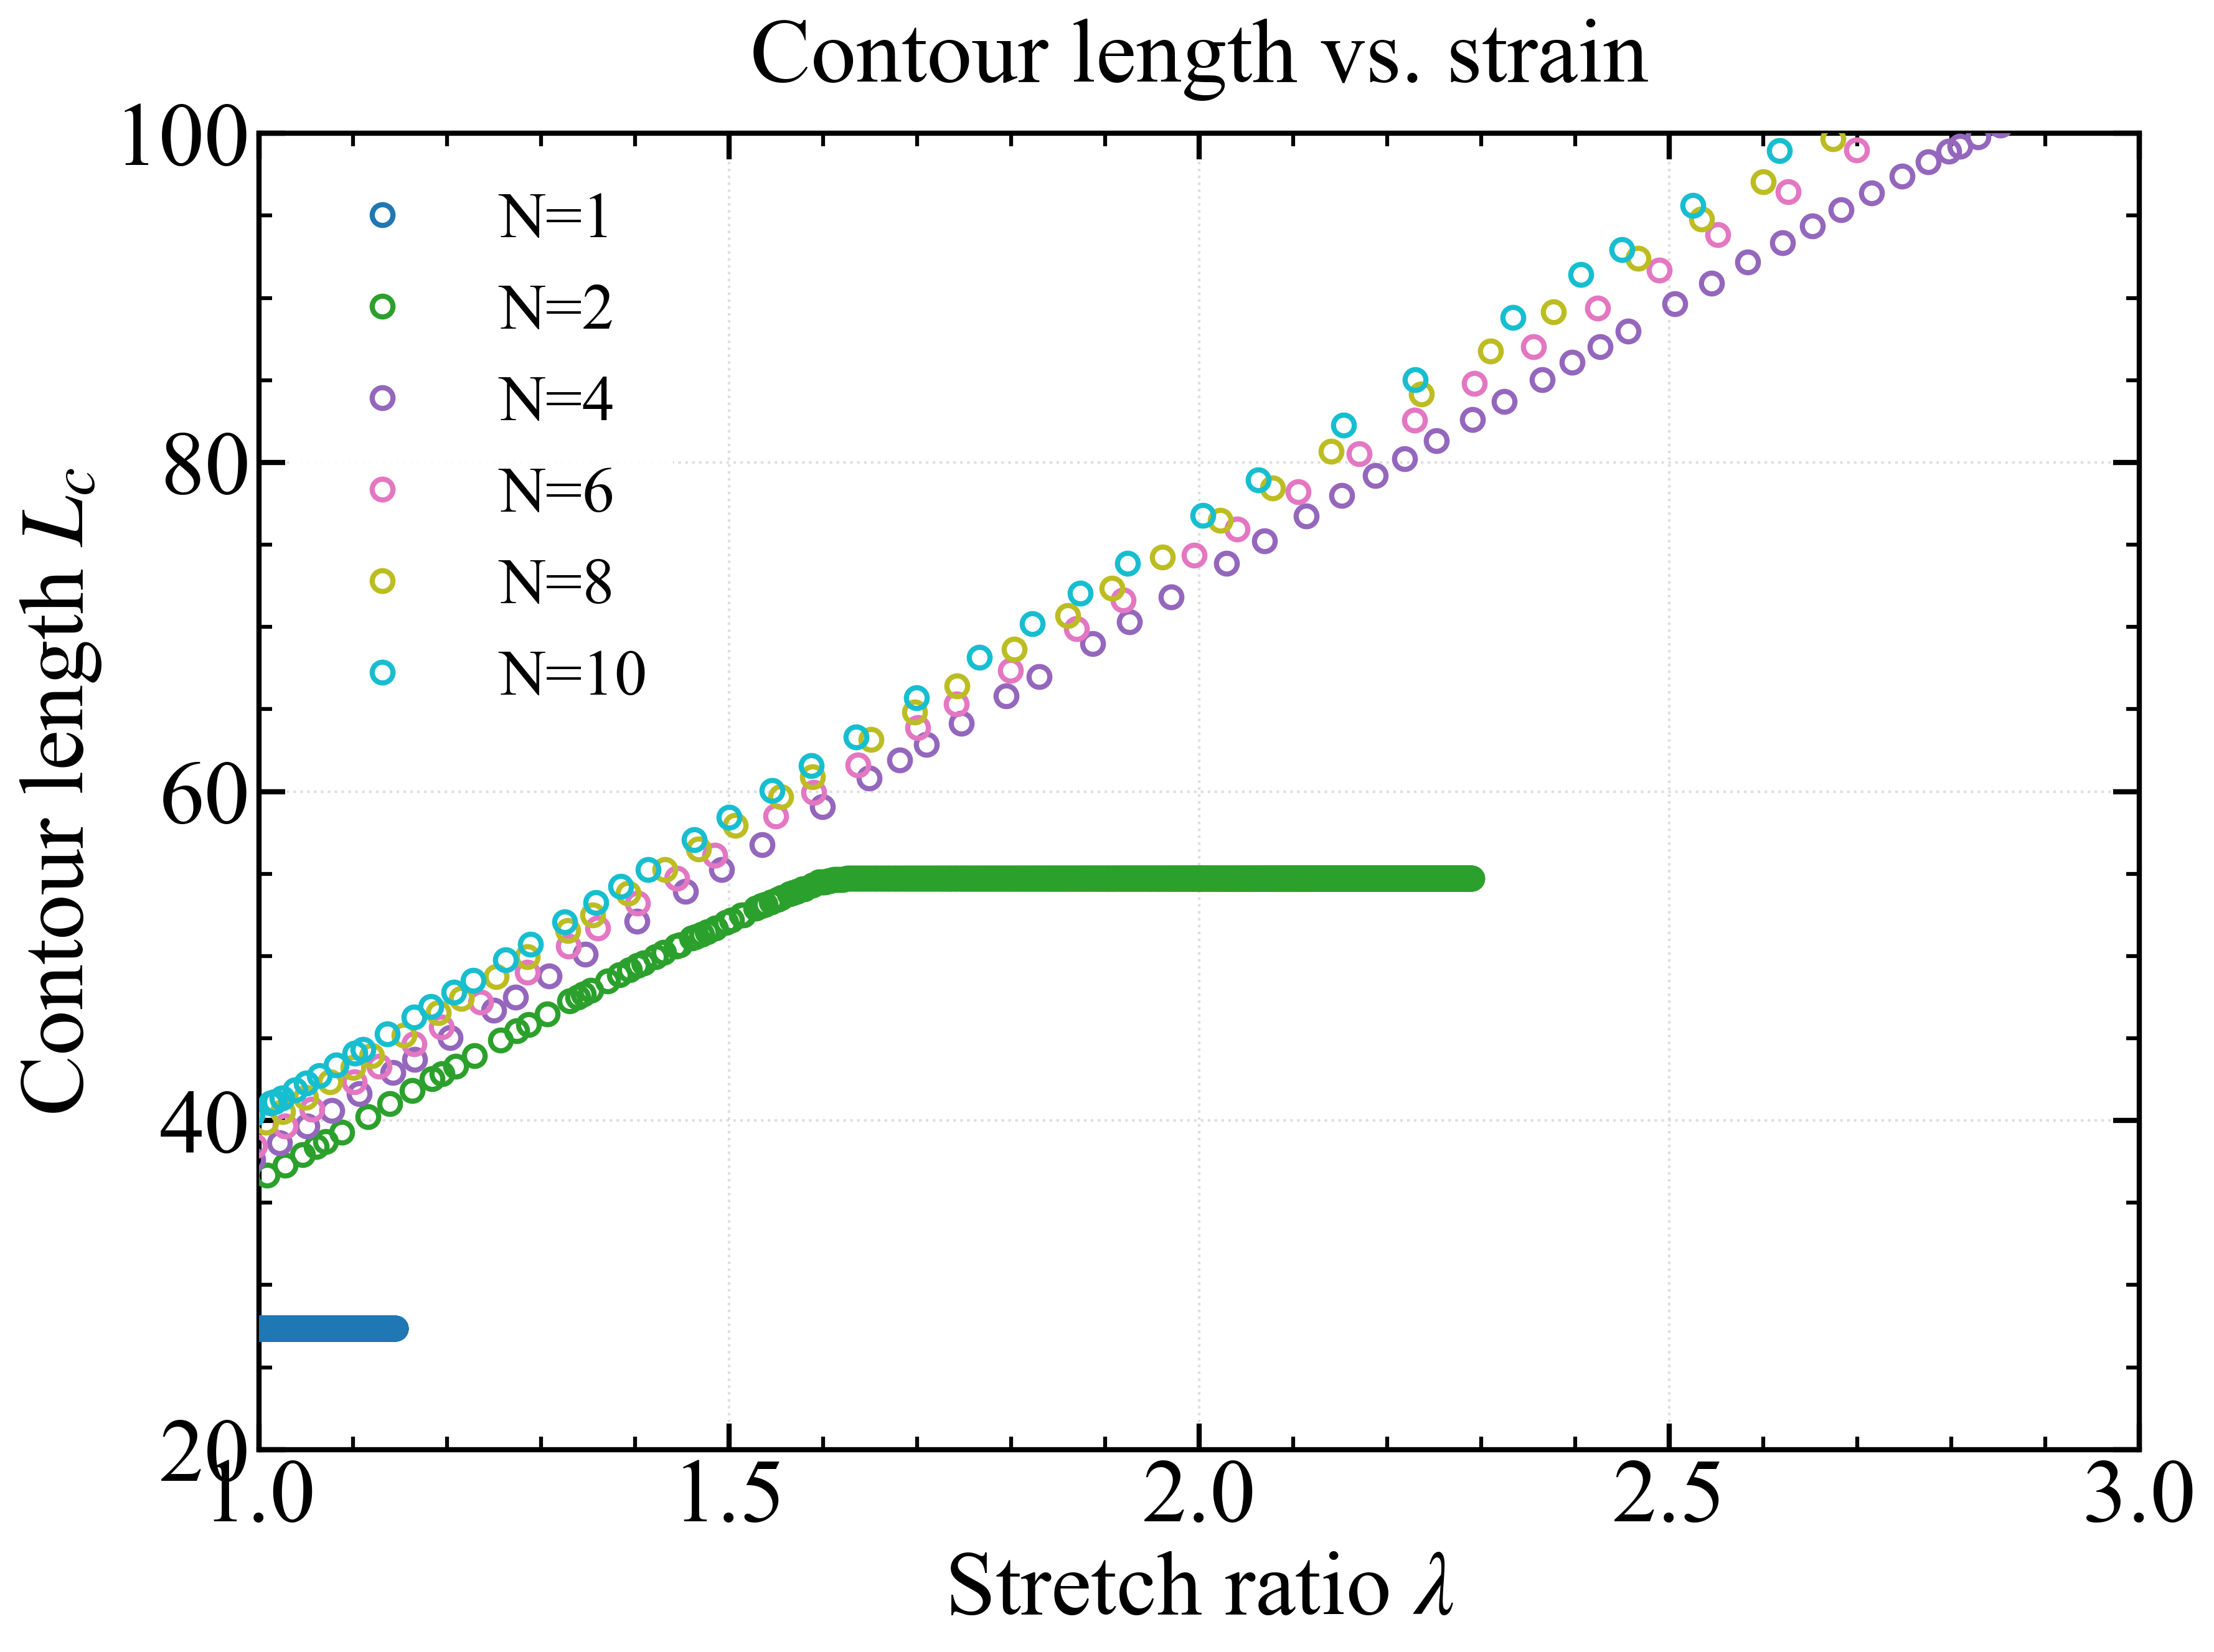
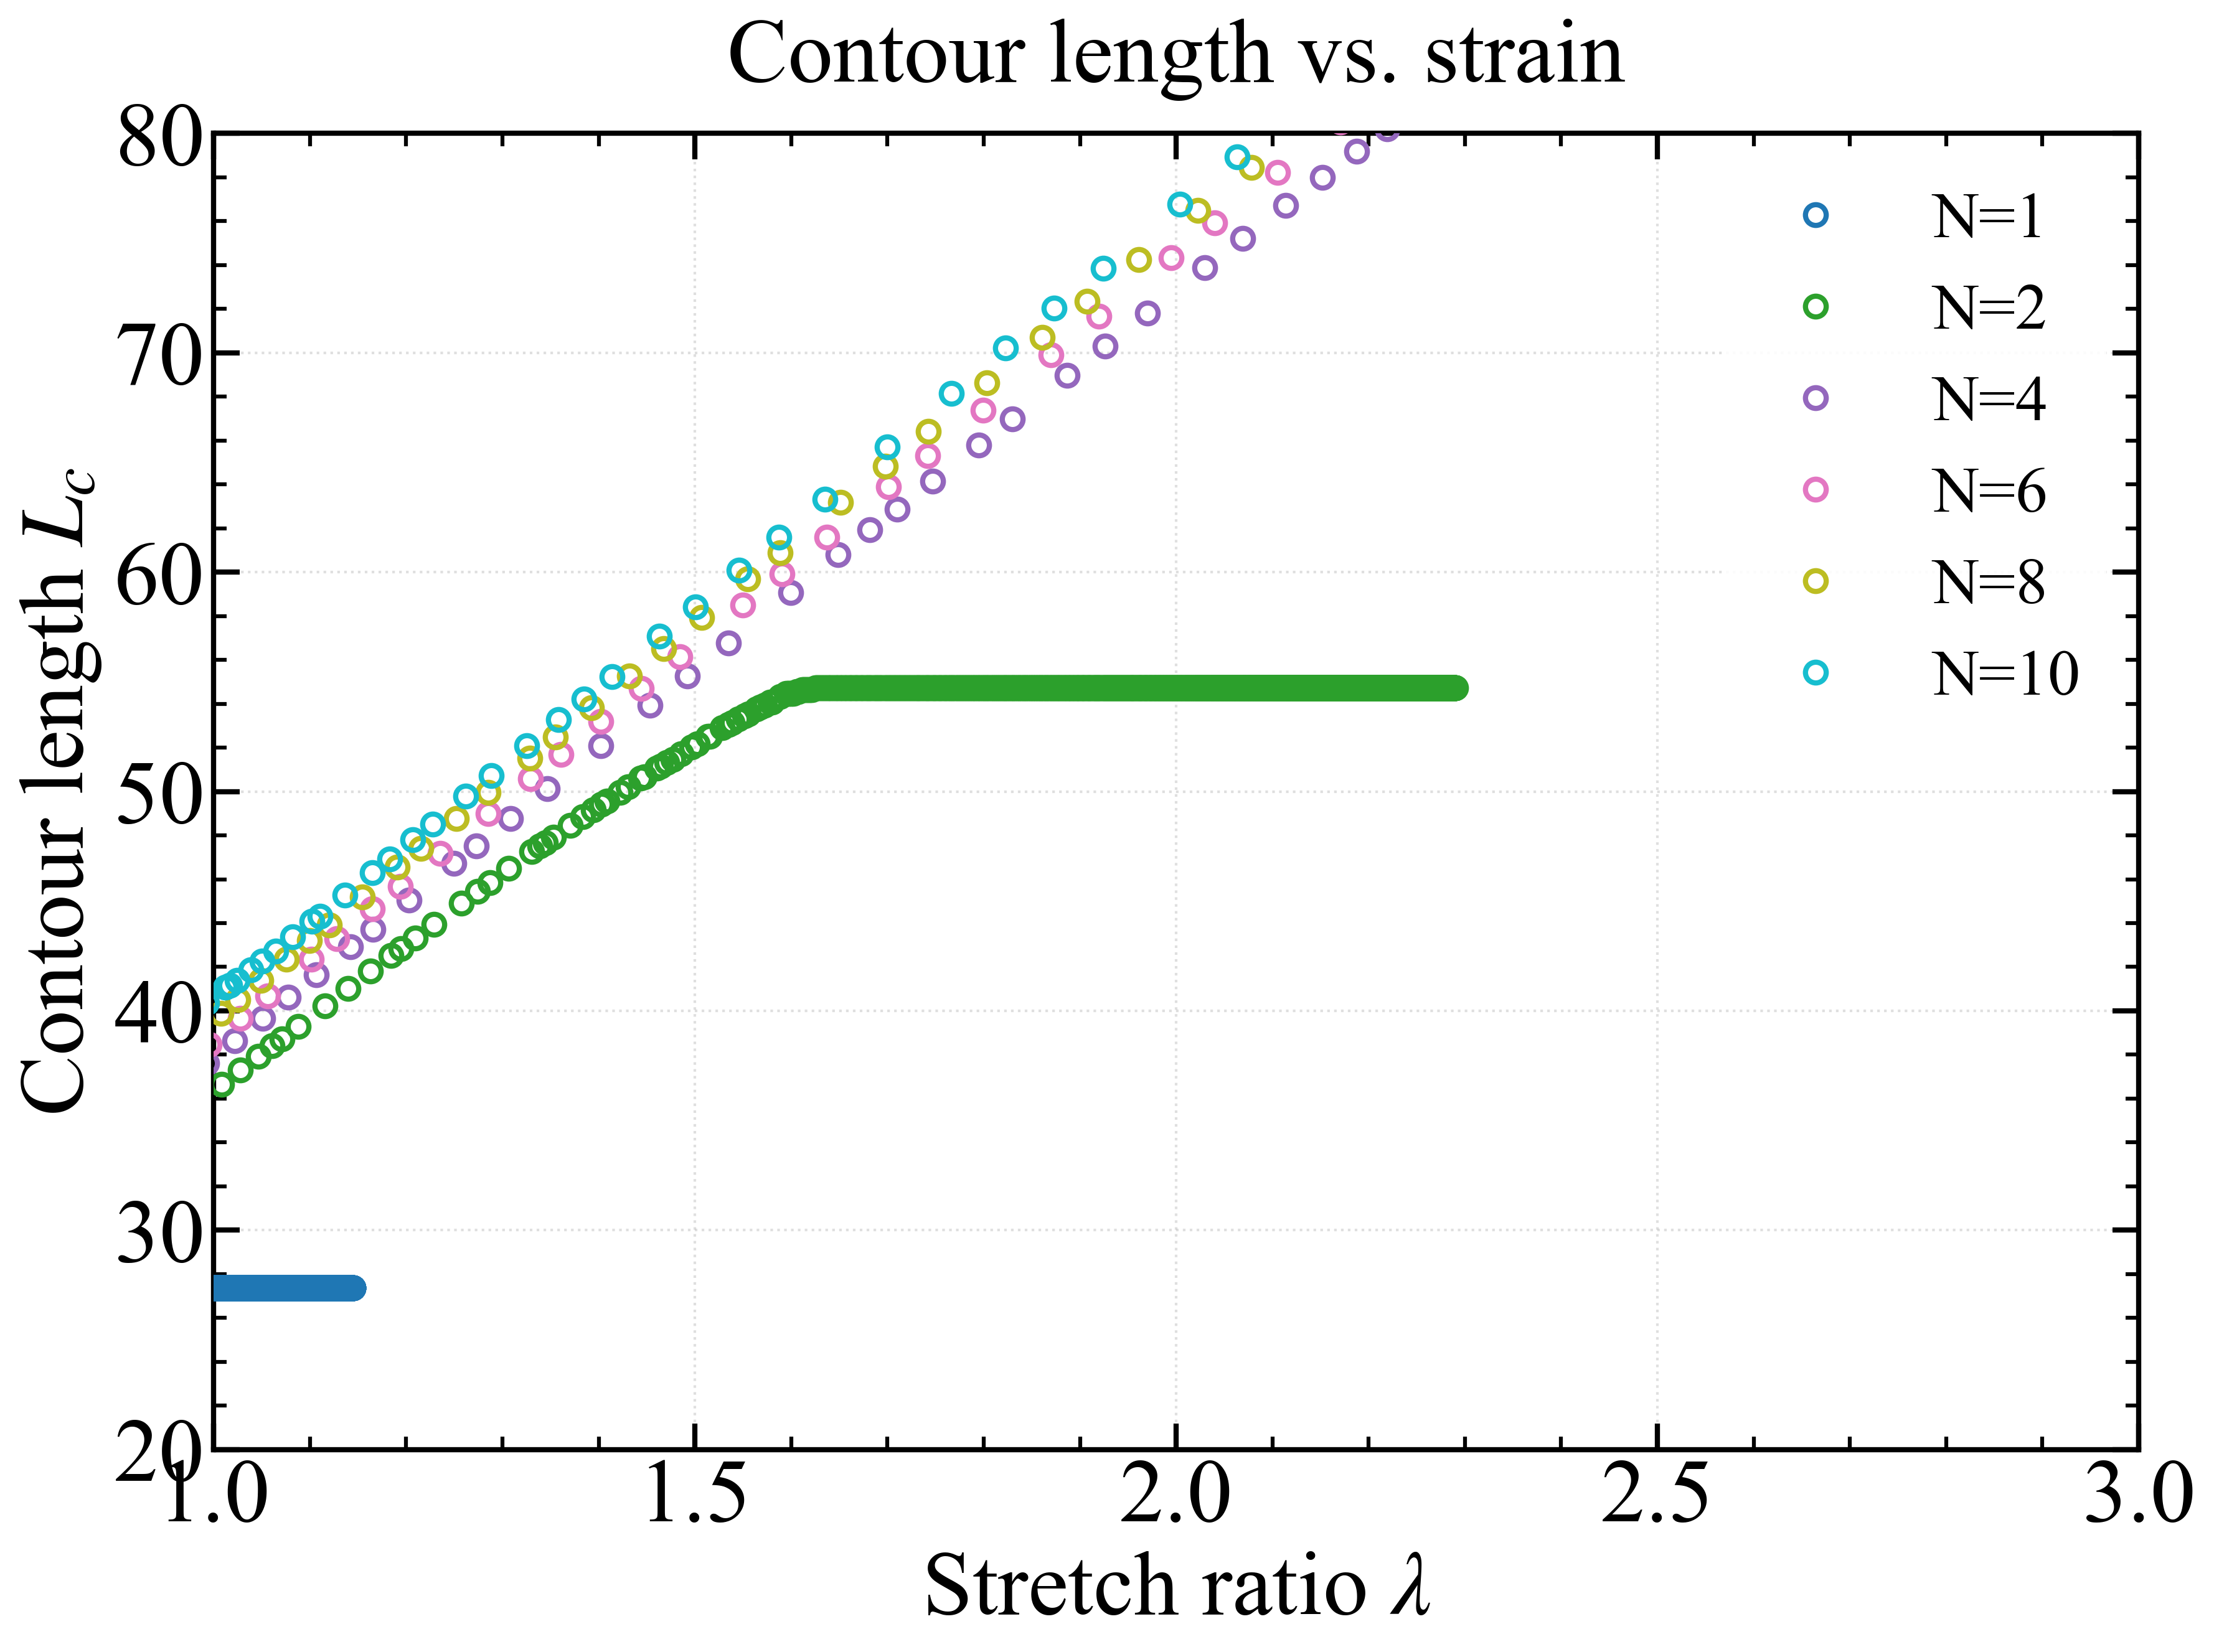
New changes

diff --git a/GB1_results/Multi_chains/Stress_compare.py b/GB1_results/Multi_chains/Stress_compare.py
@@ -92,9 +92,9 @@ N_val = [1.0, 2.0, 4.0, 6.0, 8.0, 10.0]   # domain 的数量
 M = 300
 k1 = 6.5
 k2 = 1.50
-R0 = 10.0            # 初始首末端距离
-lambda_max = 100.0  # 最大伸长比
-Stress_max = 10.0  # 最大应力值
+R0 = 20.0            # 初始首末端距离
+lambda_max = 10.0  # 最大伸长比
+Stress_max = 200.0  # 最大应力值
 
 def Lc(f, N):
     """
@@ -274,7 +274,7 @@ def create_visualization(save_dir=None):
               edgecolor='none', loc='best')
 
     ax2.set_xlim(1.0, 3.0)
-    ax2.set_ylim(10.0, 50.0)
+    ax2.set_ylim(20.0, 80.0)
 
     ax2.tick_params(axis='both', which='major',
                     direction=xtick_direction,
@@ -308,9 +308,10 @@ def create_visualization(save_dir=None):
     for idx, N in enumerate(N_val):
         filepath = f"/home/tyt/project/protein_gel/GB1_results/Multi_chains/N_{int(N)}_M_{M}_test_results/average_curves.csv"
         f_val, r_val, n_val = load_average_curve_data(filepath)
+        lam_val = r_val / R0
         Lc_val = (N - n_val) * xi_f + n_val* alpha * xi_f
         x_val = r_val / Lc_val
-        ax3.plot(r_val/R0, x_val, 'o', color=colors[idx], markerfacecolor='none',
+        ax3.plot(lam_val, x_val, 'o', color=colors[idx], markerfacecolor='none',
                 markeredgewidth=2, markersize=8,
                 label=f'N={int(N)}', zorder=4)
 
@@ -334,7 +335,7 @@ def create_visualization(save_dir=None):
               edgecolor='none', loc='best')
 
     ax3.set_xlim(1.0, 3.0)
-    ax3.set_ylim(0.2, 1.0)
+    ax3.set_ylim(0.4, 0.9)
 
     ax3.tick_params(axis='both', which='major',
                     direction=xtick_direction,